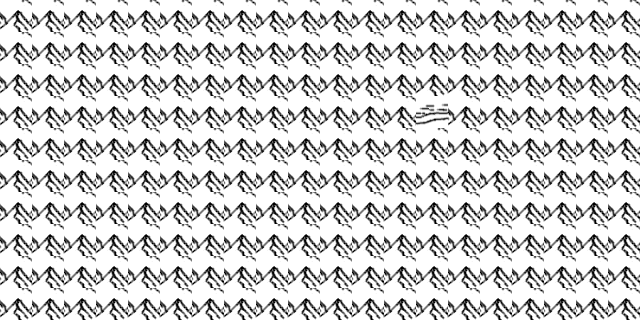
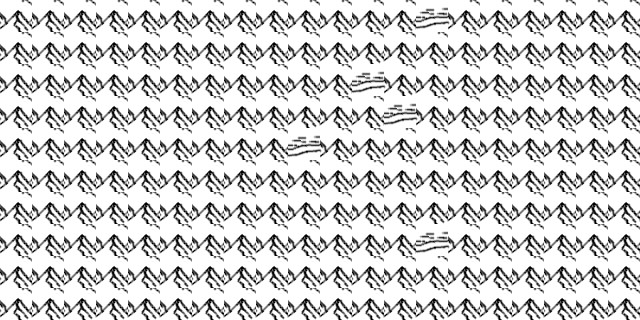
fix click behaviour

diff --git a/deps/ui.py b/deps/ui.py
@@ -33,6 +33,27 @@ def get_state(key:str) -> bool:
     return states.get(key, False)
 
 
+def close_active() -> None:
+    """
+    Ferme tous les popup actifs.
+    """
+    for key, value in states.items():
+        if value:
+            states[key] = False
+
+def none_active() -> bool:
+    """
+    Vérifie si un popup est actif.
+
+    Returns:
+        bool: True si un popup est actif, sinon False.
+    """
+    for key, value in states.items():
+        if value:
+            return False
+    return True
+
+
 def create_popup(key:list[str, bool], message:str, width=0.8, height=0.8, bg_color="#1e1e1e", color="#b8b8b6") -> None:
     """
     Crée un popup avec un message et un bouton de fermeture. 
@@ -58,24 +79,32 @@ def create_popup(key:list[str, bool], message:str, width=0.8, height=0.8, bg_col
     width, height = width * w, height * l
     c = abs(width - w)//2, abs(height - l)//2
 
-    # fltk.rectangle(c[0], c[1], c[0]+width, c[1]+height, remplissage='yellow', epaisseur=0)
+    # fltk.rectangle(c[0], c[1], c[0]+width, c[1]+height, remplissage='yellow', epaisseur=0, tag=key[0])
     
 
     # Border radius
     toolbar_color = '#3c3c3c'
     r = min(height*.1, width*.1)
 
-    fltk.cercle(c[0]+r, c[1]+r, r, remplissage=toolbar_color, epaisseur=0)
-    fltk.rectangle(c[0], c[1]+r, c[0]+r, c[1]+(height-r), remplissage=bg_color, epaisseur=0)
+    fltk.cercle(c[0]+r, c[1]+r, r, remplissage=toolbar_color, epaisseur=0,
+                tag=key[0])
+    fltk.rectangle(c[0], c[1]+r, c[0]+r, c[1]+(height-r), remplissage=bg_color, epaisseur=0,
+                   tag=key[0])
 
-    fltk.cercle(c[0]+r, c[1]+height - r, r, remplissage=bg_color, epaisseur=0)
-    fltk.rectangle(c[0]+r, c[1]+(height - r), c[0]+(width - r), c[1]+height, remplissage=bg_color, epaisseur=0)
+    fltk.cercle(c[0]+r, c[1]+height - r, r, remplissage=bg_color, epaisseur=0,
+                tag=key[0])
+    fltk.rectangle(c[0]+r, c[1]+(height - r), c[0]+(width - r), c[1]+height, remplissage=bg_color, epaisseur=0,
+                   tag=key[0])
 
-    fltk.cercle(c[0]+width - r, c[1] + r, r, remplissage=toolbar_color, epaisseur=0)
-    fltk.rectangle(c[0]+r, c[1], c[0]+(width - r), c[1]+r, remplissage=toolbar_color, epaisseur=0)
+    fltk.cercle(c[0]+width - r, c[1] + r, r, remplissage=toolbar_color, epaisseur=0,
+                tag=key[0])
+    fltk.rectangle(c[0]+r, c[1], c[0]+(width - r), c[1]+r, remplissage=toolbar_color, epaisseur=0,
+                   tag=key[0])
 
-    fltk.cercle(c[0] + width - r, c[1] + height - r, r, remplissage=bg_color, epaisseur=0)
-    fltk.rectangle(c[0]+(width - r), c[1]+r, c[0]+width, c[1]+(height - r), remplissage=bg_color, epaisseur=0)
+    fltk.cercle(c[0] + width - r, c[1] + height - r, r, remplissage=bg_color, epaisseur=0,
+                tag=key[0])
+    fltk.rectangle(c[0]+(width - r), c[1]+r, c[0]+width, c[1]+(height - r), remplissage=bg_color, epaisseur=0,
+                   tag=key[0])
 
     # Title 
     fltk.texte(c[0] + width // 2, c[1] + r // 2, message, couleur=color, 
@@ -83,7 +112,7 @@ def create_popup(key:list[str, bool], message:str, width=0.8, height=0.8, bg_col
                ancrage="center", taille=int(r // 4))
 
     # main area
-    fltk.rectangle(c[0]+r, c[1]+r, c[0]+(width - r), c[1]+(height - r), remplissage=bg_color, epaisseur=0)
+    fltk.rectangle(c[0]+r, c[1]+r, c[0]+(width - r), c[1]+(height - r), remplissage=bg_color, epaisseur=0, tag=key[0])
 
     # Close button
     button_x, button_y = c[0], c[1]

diff --git a/moteur.py b/moteur.py
@@ -28,7 +28,7 @@ def mainloop():
         ui.grid_selectors(dim)
 
         # map 
-        fltk.image(w//2, h//2, 'map.png', ancrage='center', hauteur=unit*dim[1], largeur=unit*dim[0], tag='map')
+        fltk.image(w//2, h//2, 'map.png', ancrage='center', hauteur=unit*dim[1], largeur=unit*dim[0])
         if grid:
             ui.grid(dim)
         # popup
@@ -51,17 +51,27 @@ def mainloop():
         elif ev[0] == "ClicGauche":
 
             objects = addons.liste_objets_survoles()
-
+            clicked = []
             for obj in objects:
-                sommet = [info for info in addons.recuperer_tags(obj) if info != 'current']
-                for tag in sommet:
-                    if tag.startswith('close_'):
-                        key = tag.split('_')[1]
-                        ui.change_state(key)
+                for info in addons.recuperer_tags(obj):
+                    if info!='current':
+                        clicked.append(info)
+
+            print(clicked)
+            if len(clicked) == 0:
+                ui.close_active()
+            for tag in clicked:
+                if tag.startswith('close_'):
+                    key = tag.split('_')[1]
+                    ui.change_state(key)
+                if len(clicked) == 1:
                     if tag.startswith('grid_'):
-                        tuile = [int(n) for n in tag.split('_')[1].split('-')]
-                        map.edit_tile(tuile[1], tuile[0], 'SSDH')
-                        ui.change_state('popup')
+                        if ui.none_active():
+                            tuile = [int(n) for n in tag.split('_')[1].split('-')]
+                            map.edit_tile(tuile[1], tuile[0], 'SSDH')
+                            ui.change_state('popup')
+                        else:
+                            ui.close_active()
             fltk.efface_tout()
             draw()
 
